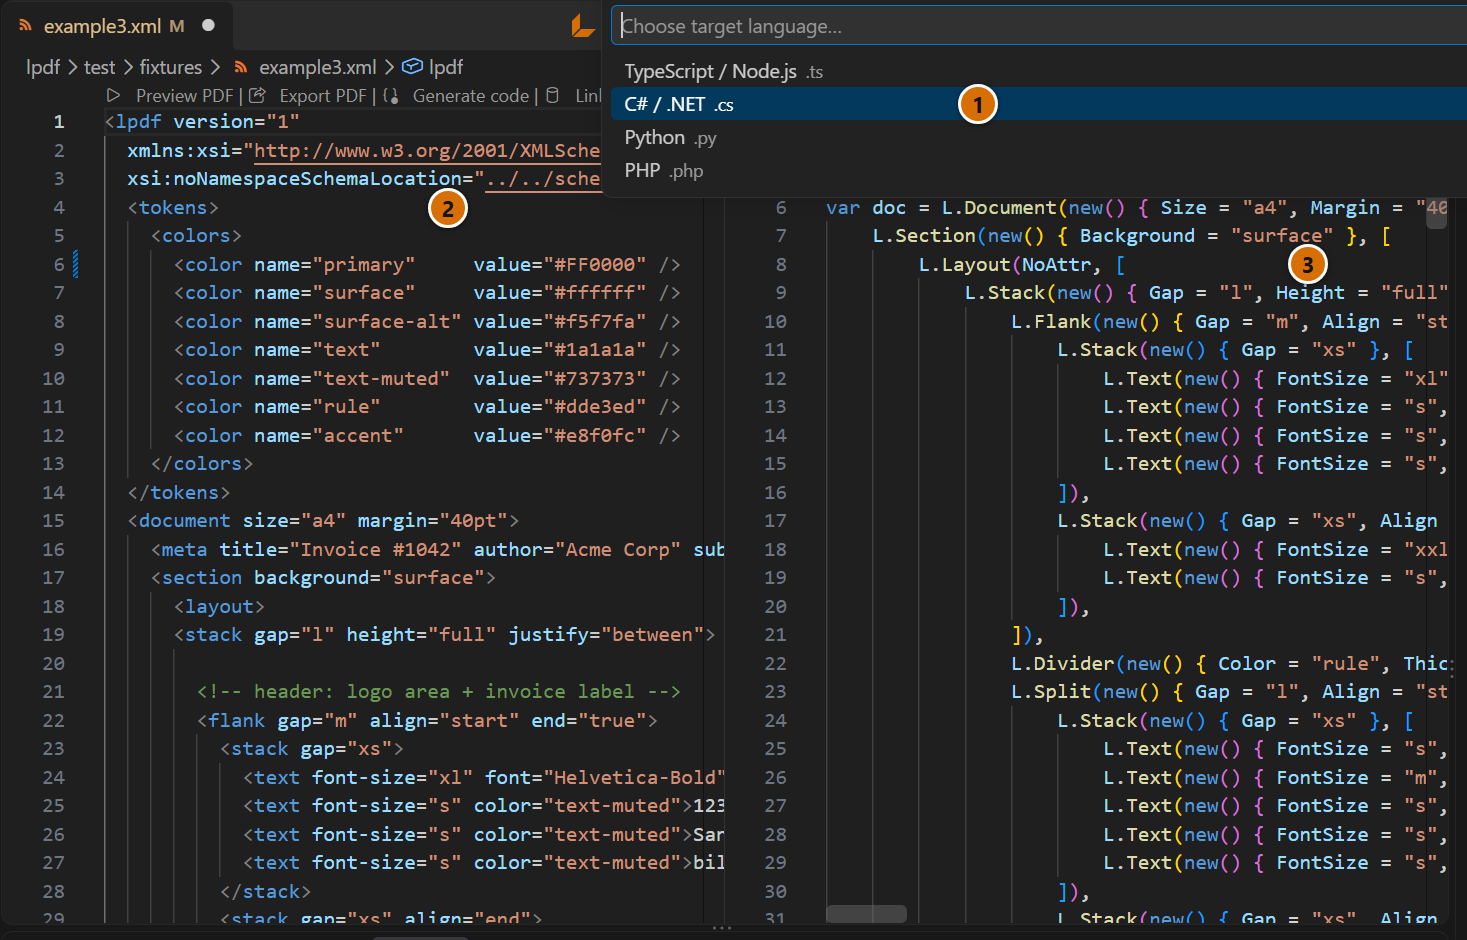
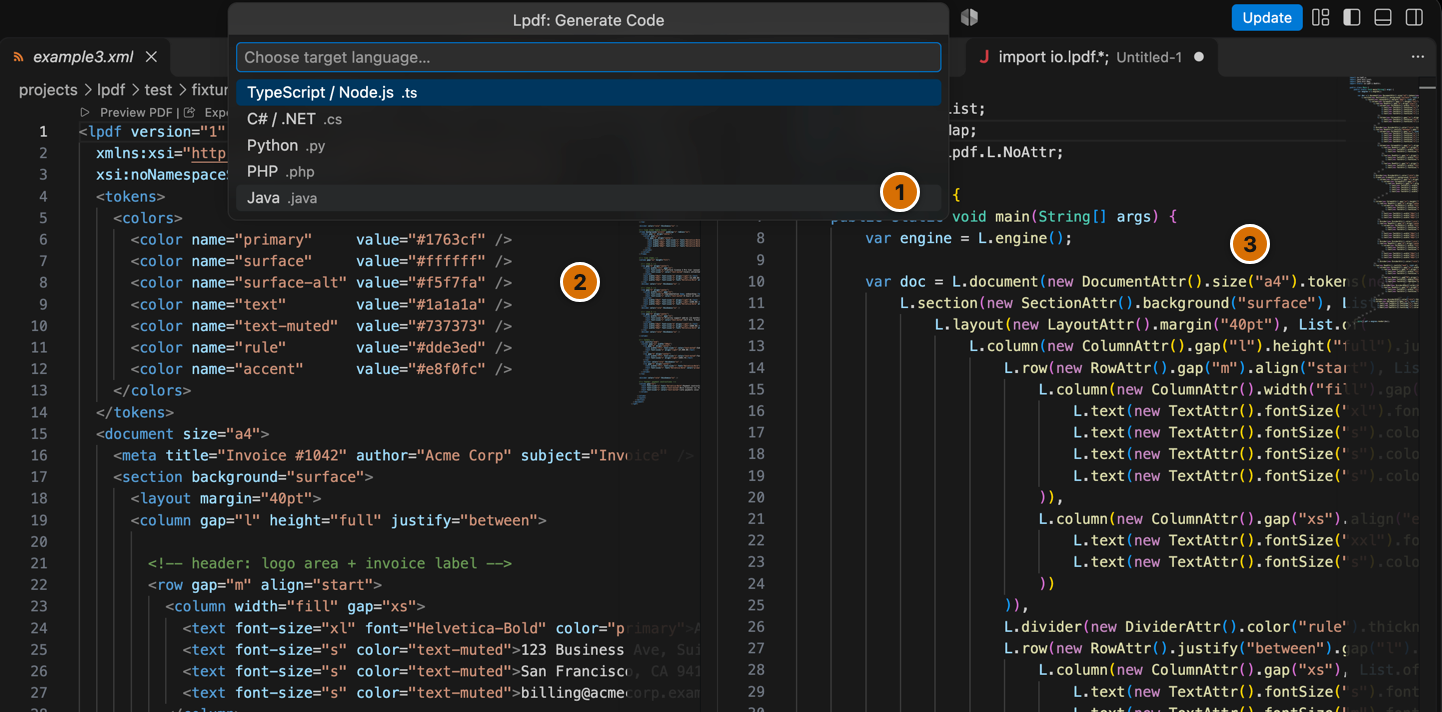
Show Java in the Generate Code picture
Work: 468

Changed region(s): [[0.0, 0.0, 1.0, 1.0], [0.5617, 0.9579, 0.6241, 0.9888]]

diff --git a/README.md b/README.md
@@ -147,7 +147,7 @@ Hover an element or an attribute for what it does, the attributes it takes, and 
 
 Run **Lpdf: Generate Code** to turn the saved XML into SDK code that builds the same document. It opens beside your template.
 
-![The Generate Code command offering four languages, with the XML on the left and the generated C# on the right, with numbered labels explained in the list below](docs/images/generate.png)
+![The Generate Code command offering five languages, with the XML on the left and the generated Java on the right, with numbered labels explained in the list below](docs/images/generate.png)
 
 1. Choose the language: TypeScript, C#, Python, PHP or Java.
 2. Your template.
